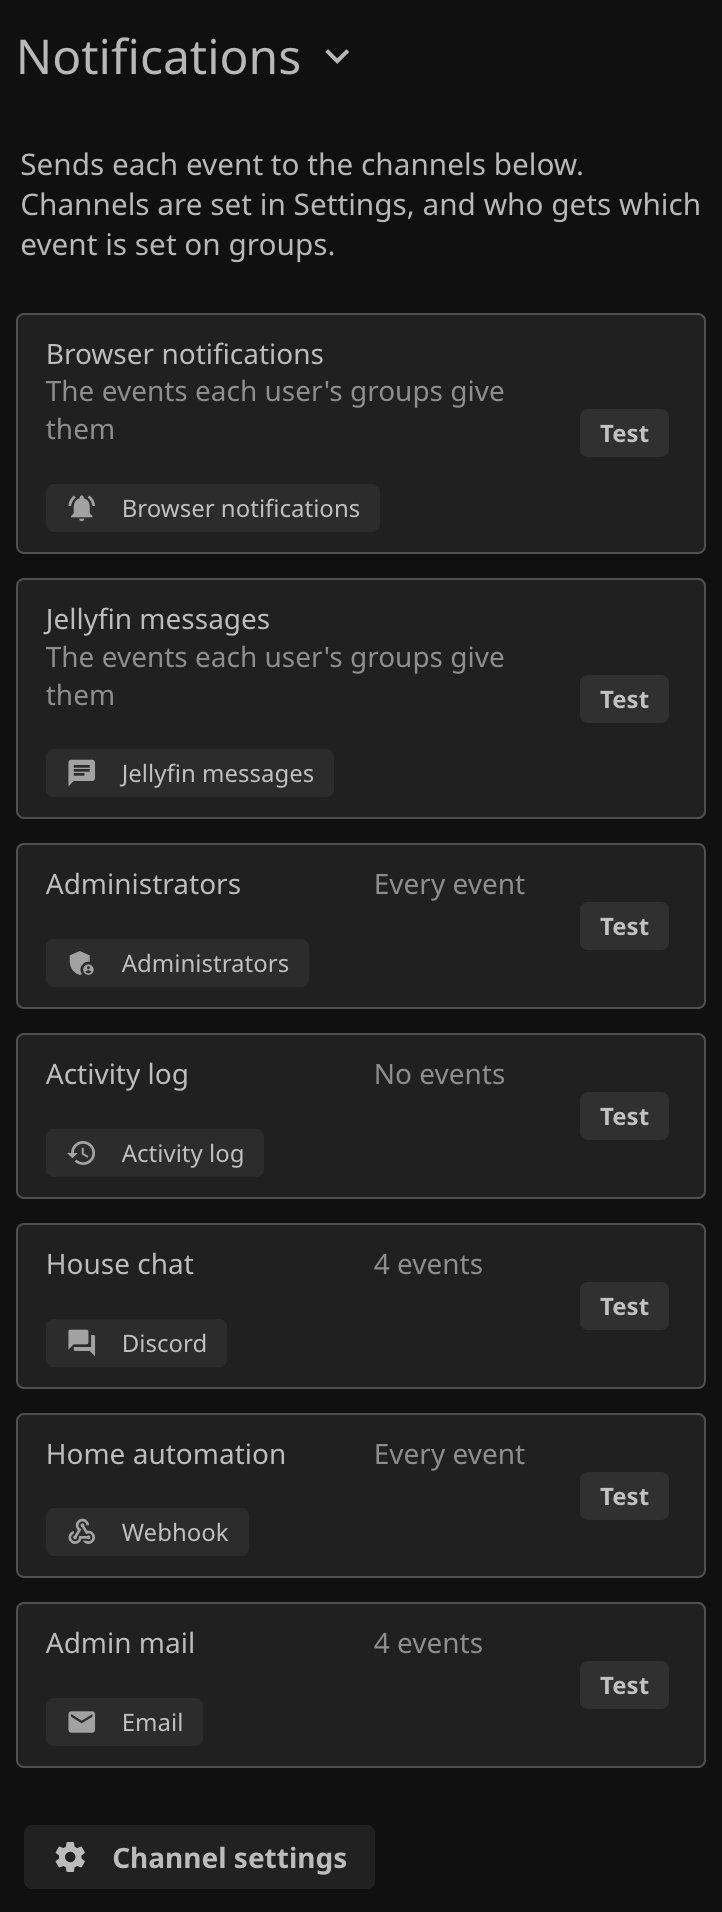
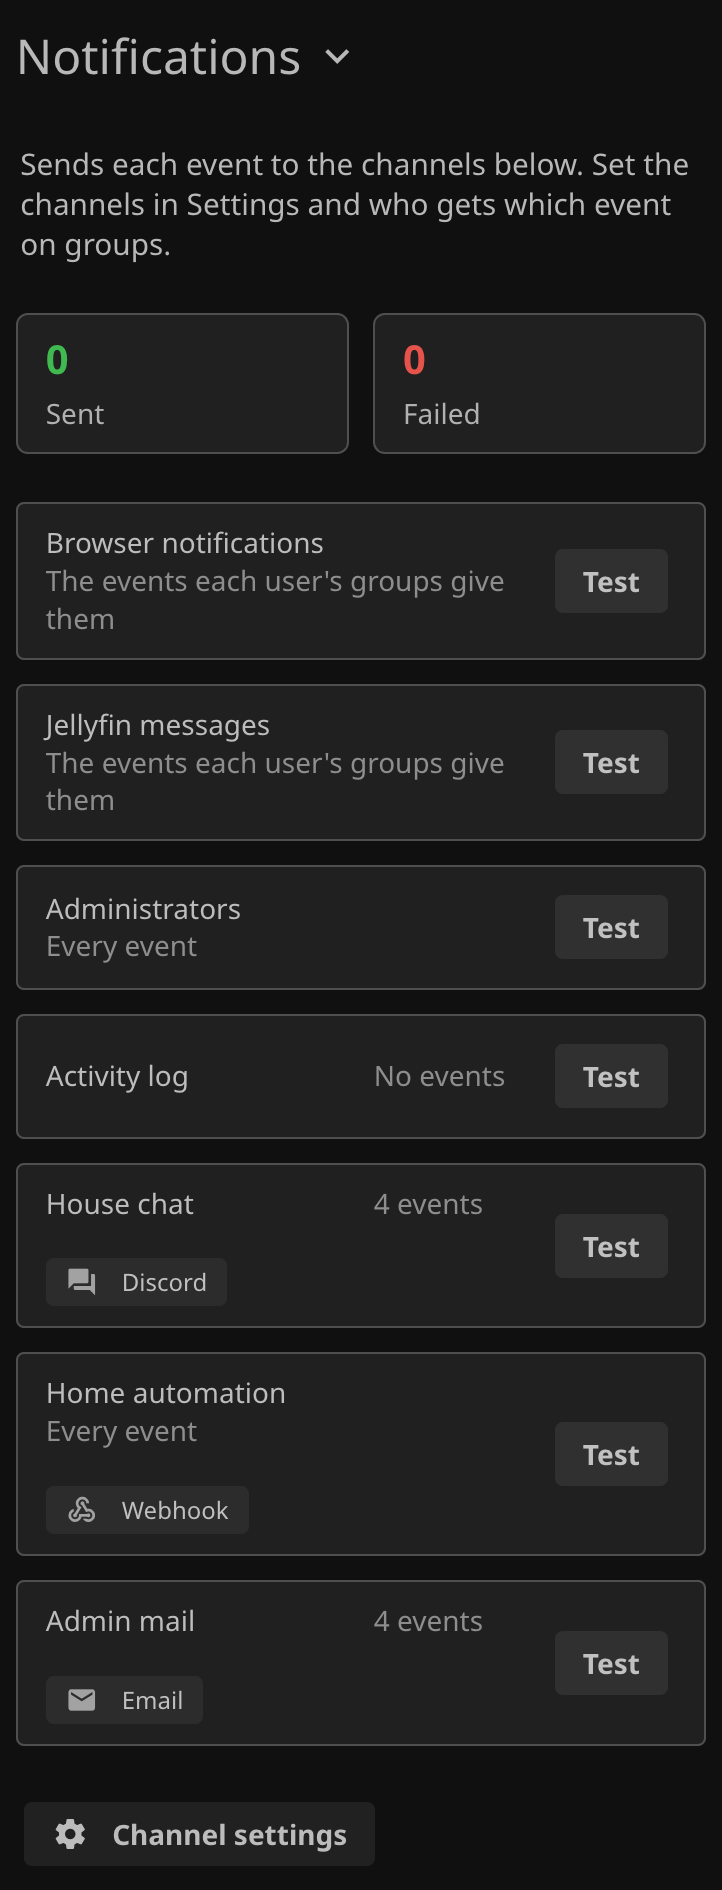
add send cards and tidy notification rows

diff --git a/Jellyfin.Plugin.Necto/Web/necto_notifications.js b/Jellyfin.Plugin.Necto/Web/necto_notifications.js
@@ -59,8 +59,37 @@ export function channelSummary(channel, shared) {
     return shared.t.plural(channel.EventCount, 'NotificationsEventCountOne', 'NotificationsEventCountMany');
 }
 
+// sendCounts
+// Counts the sends in the log that went and those that failed.
+//
+// Inputs
+// log [object[]]: What Notifications/Log answered.
+//
+// Output
+// [object]: { sent, failed }.
+export function sendCounts(log) {
+    var failed = (log || []).filter(function (e) { return !e.Ok; }).length;
+    return { sent: (log || []).length - failed, failed: failed };
+}
+
+// sendCards
+// Turns the send counts into the cards over the list.
+//
+// Inputs
+// counts [object]: What sendCounts gives.
+// t [object]: The strings.
+//
+// Output
+// [object[]]: The Sent and Failed cards.
+export function sendCards(counts, t) {
+    return [
+        { count: counts.sent, label: t.tr('StateSent'), color: 'green' },
+        { count: counts.failed, label: t.tr('LabelFailed'), color: 'red' }
+    ];
+}
+
 // channelItems
-// Turns the channels into rows, each with its kind, its state, and a Test button.
+// Turns the channels into rows, each with its kind when it has a name of its own, its state, and a Test button.
 //
 // Inputs
 // channels [object[]]: The channels from Notifications/Channels.
@@ -72,10 +101,12 @@ export function channelSummary(channel, shared) {
 export function channelItems(channels, shared, onTest) {
     var t = shared.t;
     return (channels || []).map(function (channel) {
-        var tags = [{ label: t.tr(KIND_KEYS[channel.Kind] || 'LabelWebhook'), icon: KIND_ICONS[channel.Kind] || 'send' }];
+        var kind = t.tr(KIND_KEYS[channel.Kind] || 'LabelWebhook');
+        // A channel Necto keeps is named by its kind, so its kind tag would only repeat the name.
+        var tags = channelName(channel, t) === kind ? [] : [{ label: kind, icon: KIND_ICONS[channel.Kind] || 'send' }];
         if (!channel.Enabled) tags.push({ label: t.tr('Off'), color: 'gray', off: true });
         else if (!channel.Ready) tags.push({ label: t.tr('NotificationsTagNotSetUp'), color: 'orange' });
-        var button = h('button', { is: 'emby-button', type: 'button', class: 'raised stolon-button stolon-secondary stolon-small', 'data-action': 'test', 'data-channel': channel.Id }, [h('span', { text: t.tr('ButtonTest') })]);
+        var button = h('button', { is: 'emby-button', type: 'button', class: 'raised stolon-button stolon-secondary', 'data-action': 'test', 'data-channel': channel.Id }, [h('span', { text: t.tr('ButtonTest') })]);
         button.addEventListener('click', function (e) { e.stopPropagation(); onTest(channel, button); });
         return { id: channel.Id, title: channelName(channel, t), secondary: channelSummary(channel, shared), tags: tags, aside: button, channel: channel };
     });
@@ -86,6 +117,7 @@ export default function (view) {
 
     var shared = null;
     var list = null;
+    var sendsDrawn = false;
     var loadSeq = 0;
 
     // report
@@ -107,9 +139,16 @@ export default function (view) {
     }
 
     // loadChannels
-    // Reads the channels and draws them. An answer that lands after a newer load is dropped.
+    // Reads the channels and the send log and draws them. An answer that lands after a newer load is dropped.
     function loadChannels() {
         var mine = ++loadSeq;
+        // The cards show a dash until the log is read, and keep it when it cannot be.
+        if (!sendsDrawn) shared.renderCards('notificationsCards', sendCards({ sent: '–', failed: '–' }, shared.t));
+        shared.request('Notifications/Log').then(function (log) {
+            if (mine !== loadSeq) return;
+            sendsDrawn = true;
+            shared.renderCards('notificationsCards', sendCards(sendCounts(Array.isArray(log) ? log : []), shared.t));
+        }).catch(function () { /* the dashes stay */ });
         return shared.request('Notifications/Channels').then(function (channels) {
             if (mine !== loadSeq) return;
             var items = channelItems(Array.isArray(channels) ? channels : [], shared, test);

diff --git a/Jellyfin.Plugin.Necto/Web/necto_notifications.html b/Jellyfin.Plugin.Necto/Web/necto_notifications.html
@@ -1,5 +1,5 @@
 <!-- necto_notifications.html -->
-<!-- The Notifications tool. It lists every channel with a test for each. -->
+<!-- The Notifications tool. It counts the sends and lists every channel with a test for each. -->
 
 <div id="NectoNotificationsPage" data-role="page" class="page type-interior pluginConfigurationPage"
      data-require="emby-button"
@@ -7,8 +7,12 @@
     <div data-role="content">
         <div class="content-primary">
             <div class="verticalSection verticalSection-extrabottompadding">
-                <div class="fieldDescription" data-str="NotificationsHelpPage">Sends each event to the channels below. Channels are set in Settings, and who gets which event is set on groups.</div>
+                <div class="fieldDescription" data-str="NotificationsHelpPage">Sends each event to the channels below. Set the channels in Settings and who gets which event on groups.</div>
                 <div id="notificationsStatus" class="stolon-status-text" role="status"></div>
+
+                <!-- Sends -->
+                <!-- Counts the sends in the log that went and that failed. -->
+                <div id="notificationsCards" class="stolon-cards stolon-even"></div>
 
                 <!-- Channels -->
                 <!-- Every channel, the user channels first, each with its test. -->

diff --git a/docs/Notifications.md b/docs/Notifications.md
@@ -4,7 +4,9 @@ Notifications sends every event a Necto tool reports to the people and channels 
 
 ## Channels
 
-**Notifications** lists every channel, each with **Test**, which sends the test event to that channel and shows what happened. **Channel settings** opens **Settings > Notifications**, where the channels are set.
+Cards at the top count the sends in the send log that went, as **Sent**, and those that **Failed**. They show a dash until the log is read.
+
+**Notifications** lists every channel, each with **Test**, which sends the test event to that channel and shows what happened. A channel with a name of its own, such as a webhook, also shows its kind. **Channel settings** opens **Settings > Notifications**, where the channels are set.
 
 | Notifications | Notifications on a phone |
 | :---: | :---: |
@@ -26,7 +28,7 @@ A test of **Browser notifications**, **Jellyfin messages**, or **Administrators*
 
 ## Who Gets an Event
 
-* **Groups > Notifications** sets the events members receive, with **Receive every event** or a pick from **Events**, and the channels they receive them on, with **Browser notifications** and **Jellyfin messages**. A member gets their events on each channel one of their groups with events turns on.
+* **Groups > Notifications** sets the events members receive, with **Receive every event** or a pick from **Events**, listed under the tool that sends each, and the channels they receive them on, with **Browser notifications** and **Jellyfin messages**. A member gets their events on each channel one of their groups with events turns on.
 * An event for users, such as a request's or an invite's, goes only to the users it is about, when the account is on and their groups give them the event. Administrators get every event about them.
 * Any other event, such as a proxy ban or a missing disk, goes to every member who is not an administrator and whose groups give them the event. Administrators get these through **Administrators**.
 * Every event goes to each administrators' channel that picks it, or takes every event.
